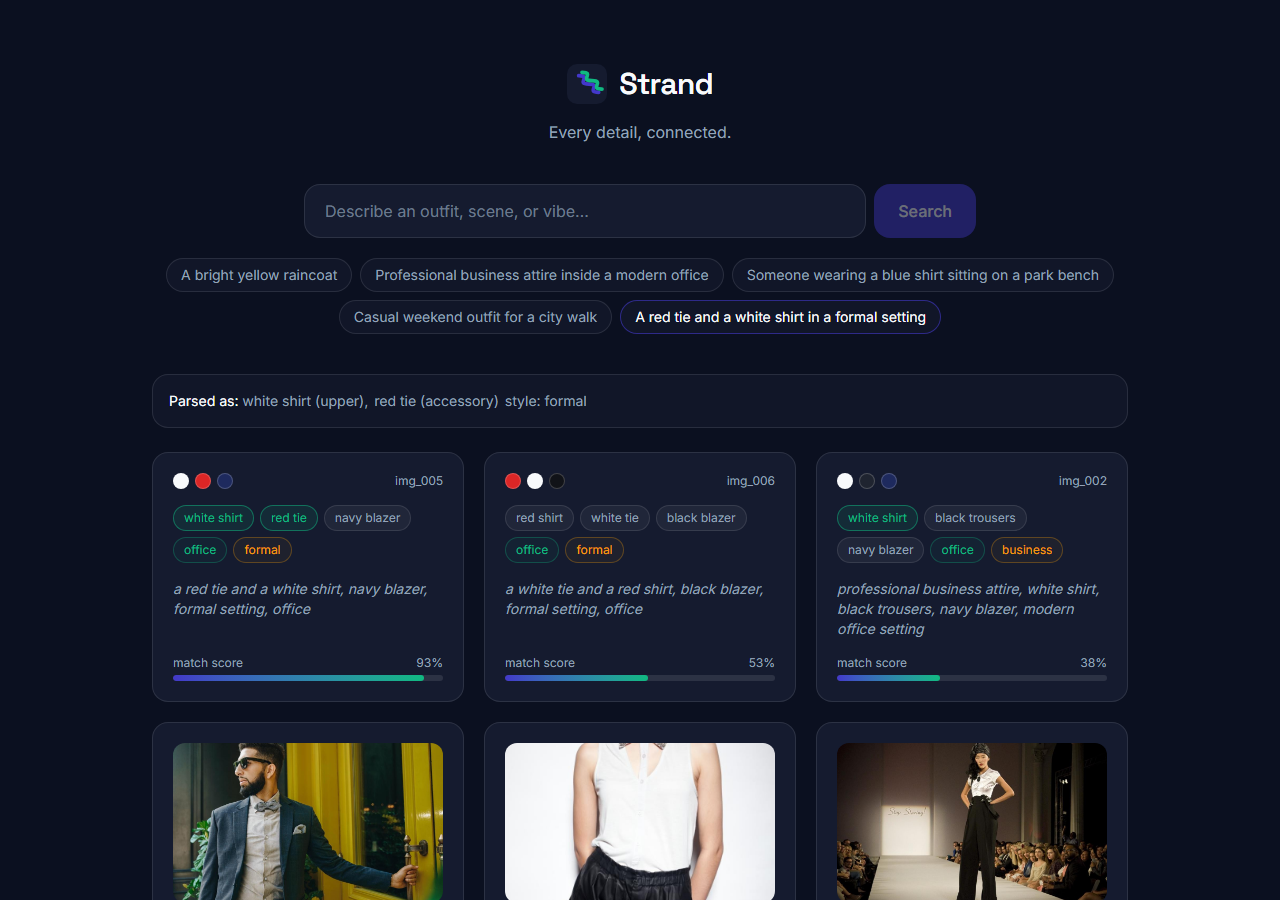
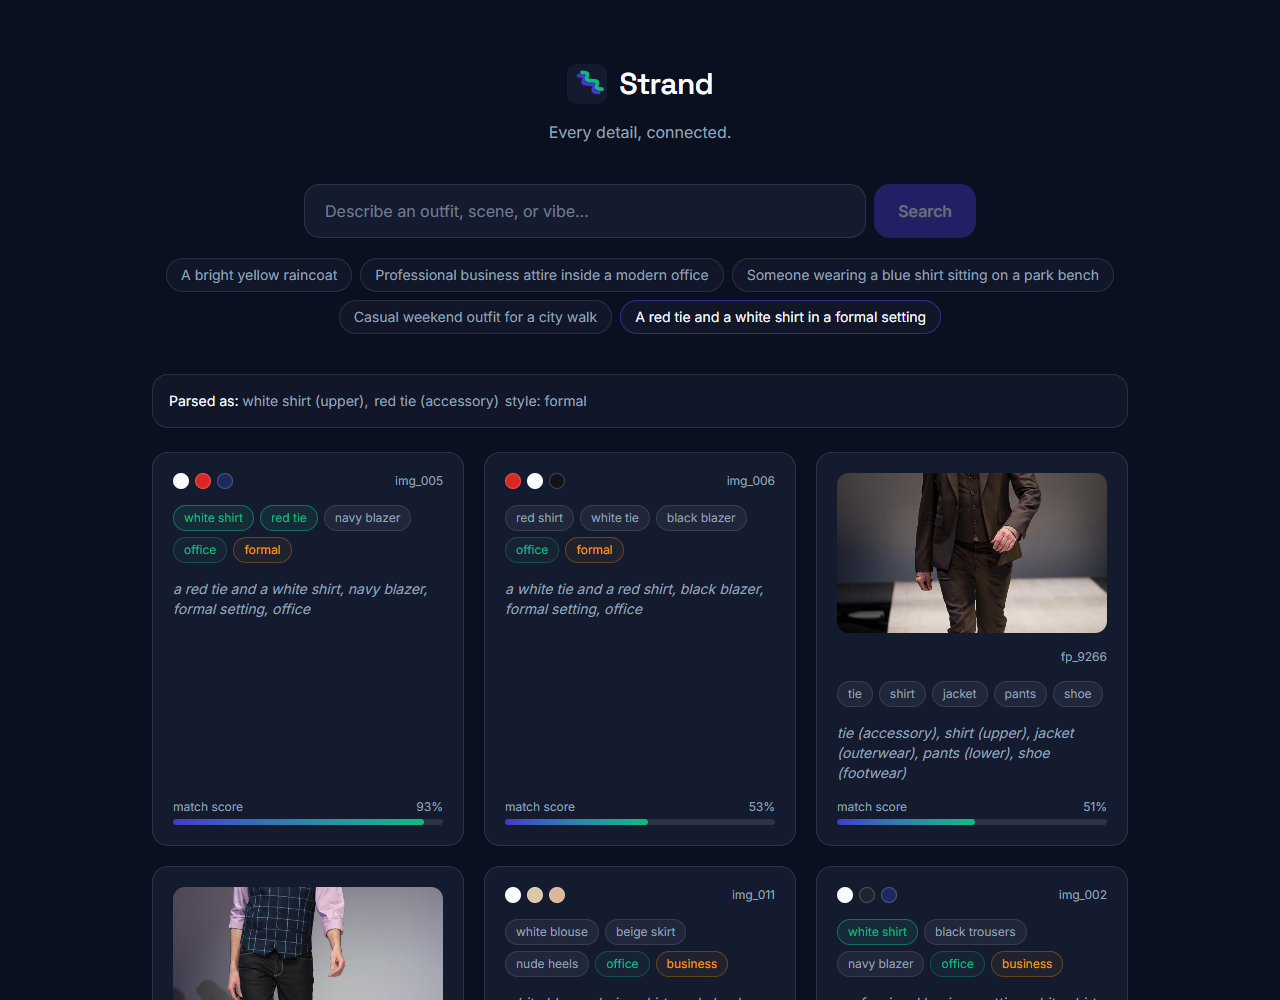
docs: add data sources, refresh screenshot, update engineering log
README: adds an explicit Data sources section (Fashionpedia, CC-BY-4.0,
via its Hugging Face mirror, plus the hand-authored decoy set and why
natural photography can't substitute for it).

Screenshot: the committed one showed photos for the mock decoy pair
(img_005/006/002) that no longer exist on disk, ResultCard.tsx already
guards photo rendering to real Fashionpedia records only
(id.startsWith("fp_")) and falls back to swatch dots for the rest, so
nothing was actually broken in the running app, the screenshot just
predated that guard. Replaced it with a fresh capture of the same
query, driven end to end against the live app (real backend, real
frontend, real Chrome via Playwright) rather than mocked up: same
93%/53% compositional-decoy contrast, now correctly showing swatch
dots for the mock pair and a real photo for the third, real result.

Working_notes.md: brings the top status summary current (dataset
resize, image-similarity wiring, garment vocabulary, cold start, CLI,
the CLIP backbone swap) and cross-references the backbone swap from
the indexer.py scaffold bullet, both had fallen behind the last two
rounds of work.

Verified CI is green on the current main (backend and frontend jobs,
all steps) via the GitHub Actions API before making these changes.

diff --git a/README.md b/README.md
@@ -98,9 +98,15 @@ Query parsing and image attribute extraction each go through a single, swappable
 |---|---|---|
 | Query parsing (text → structured schema) | Gemini 2.0 Flash | Llama 3.1/3.3, Qwen2.5, Mistral, any instruction-tuned model with structured/JSON output, self-hosted via Ollama or vLLM |
 | Image attribute extraction (photo → garments/scene/style) | Gemini 2.0 Flash | Florence-2 (a LoRA-tuned 0.77B Florence-2 has been shown to beat GPT-4o-mini and Gemini Flash on this exact fashion-JSON task), or general vision-language models like Qwen2-VL, LLaVA-NeXT, InternVL2 |
-| Image feature extraction (Part A) | Marqo-FashionCLIP | already open-source and local by default, no API key involved |
+| Image feature extraction | Marqo-FashionCLIP | already open-source and local by default, no API key involved |
 
 Both the image embeddings and the retrieval logic run entirely locally with no API key. An LLM/VLM key only unlocks open-vocabulary query parsing and automated attribute tagging; without one, the system uses a lightweight rule-based parser and the dataset's own ground-truth garment labels, the same retrieval pipeline either way.
+
+## Data sources
+
+- **[Fashionpedia](https://huggingface.co/datasets/detection-datasets/fashionpedia)** (CC-BY-4.0), real street-style, daily-life, and event photography with ground-truth garment category and bounding-box labels. 1,000 images are sampled from its validation split (`scripts/pull_fashionpedia_sample.py`), and garment slot/type detection comes directly from the dataset's own labels, no manual annotation or model-based labeling involved.
+- **A small hand-authored set** (12 records) built specifically to isolate the compositional-binding case: a color-swapped decoy pair ("a red tie and a white shirt" vs. "a white tie and a red shirt") that natural photography can't reliably provide, since it needs two images differing by exactly one color-attribute swap and nothing else.
+- Scene and style labels beyond what a dataset provides natively are filled in through the VLM attribute-extraction pipeline described above, not scraped or guessed.
 
 ## Tech stack
 

diff --git a/Working_notes.md b/Working_notes.md
@@ -1,6 +1,6 @@
 # Glance ML Internship Assignment — Working Notes (v2)
 
-Status: all design decisions are locked in (§9), the retrieval pipeline runs on real data (Chroma, real Fashionpedia records, a real CLIP-based Part A indexer, §10), it's measured against real baselines (§12), and it has a measured, not just reasoned, scaling estimate (§13). The real Gemini integration (query parser and VLM attribute extraction, §8/§10) is now written and unit-tested, with automatic fallback to the keyword parser when it isn't configured, but has not been exercised against a real API key yet. Set `GEMINI_API_KEY` (see `backend/.env.example`) and it should just work; if the SDK's API has drifted since this was written, that would surface as an error in `gemini_client.py`, the one place that talks to it.
+Status: all design decisions are locked in (§9), the retrieval pipeline runs on real data (Chroma, 1,000 real Fashionpedia records at the assignment's stated scale, §5, a real CLIP-based indexer using a fashion-tuned backbone, §10/§15.1), it's measured against real baselines (§12), and it has a measured, not just reasoned, scaling estimate (§13). Real CLIP image embeddings and caption-text embeddings are both blended into ranking (§14.1), garment-type synonym matching closes a real cross-vocabulary matching gap (§14.2), a newly indexed image can be registered into the live catalog immediately (§14.3), and a plain CLI (§14.4) satisfies the literal "a script that..." wording alongside the API. The real Gemini integration (query parser and VLM attribute extraction, §8/§10) is written and unit-tested, with automatic fallback to the keyword parser when it isn't configured, but has not been exercised against a real API key yet. Set `GEMINI_API_KEY` (see `backend/.env.example`) and it should just work; if the SDK's API has drifted since this was written, that would surface as an error in `gemini_client.py`, the one place that talks to it. `README.md` has the user-facing overview, architecture diagrams, and data sources; this file is the detailed engineering log behind it, including the attempts that didn't pan out.
 
 ---
 
@@ -208,7 +208,7 @@ The repo is partway from mocked to real: garment detection, dense retrieval, and
 - `backend/app/data/real_catalog_sample.json` — 1,000 real records pulled from Fashionpedia's validation split via `backend/scripts/pull_fashionpedia_sample.py` (see §5, resized from an original 40-image scaffolding sample up to the assignment's stated 500–1,000 minimum), using the dataset's own ground-truth bbox categories mapped onto our slot/type taxonomy. This particular Fashionpedia mirror (`detection-datasets/fashionpedia`) only exposes category + bbox, not the original paper's 294 fine-grained attributes — so these records have real garments/slots but `color`, `scene`, and `style` are honestly `null` rather than guessed; that's exactly the piece the still-mocked VLM step (§4.2) would fill in.
 - `backend/app/services/catalog.py` — loads and caches the combined catalog (mock + real sample). Split out of retriever.py so both it and the router share one catalog instance instead of re-reading JSON per call.
 - `backend/app/services/vector_store.py` — `DenseScorer`: symbolic scoring's dense counterpart, isolated behind a `.score(query) -> {id: similarity}` interface. Queries a local Chroma collection (default embedding function, no API key) for real cosine similarity; falls back to word overlap if the embedding model can't be loaded, so the app degrades instead of failing to start. `retriever.py` now only blends the two scores — it doesn't know Chroma exists.
-- `backend/app/services/indexer.py` — no longer a stub. `index_image()` runs a real CLIP model (`open_clip`, local, no API key) over an image and returns a real embedding, which `image_vector_store.py` persists to an on-disk Chroma collection. This is Part A's "Feature Extraction... Vector Storage" requirement, satisfied literally, using pixels rather than ground-truth labels. It deliberately does not touch color/scene/style; that axis still needs the real VLM call from §4.2. `backend/scripts/build_image_vector_index.py` is the runnable batch driver, and `/api/index` exposes the same thing over the API (503 if `torch`/`open_clip` aren't installed in a given deployment, 404 for a missing file, 200 with the embedding dimension on success). These embeddings are now actually consulted at query time too (`services/image_similarity.py`, §14.1), not just persisted, and supplying `garments` to `/api/index` registers the image into the live catalog immediately, closing the cold-start gap §14.3 documents.
+- `backend/app/services/indexer.py` — no longer a stub. `index_image()` runs a real CLIP model (`open_clip`, local, no API key, now Marqo-FashionCLIP rather than vanilla CLIP, see §15.1) over an image and returns a real embedding, which `image_vector_store.py` persists to an on-disk Chroma collection. This is Part A's "Feature Extraction... Vector Storage" requirement, satisfied literally, using pixels rather than ground-truth labels. It deliberately does not touch color/scene/style; that axis still needs the real VLM call from §4.2. `backend/scripts/build_image_vector_index.py` is the runnable batch driver, and `/api/index` exposes the same thing over the API (503 if `torch`/`open_clip` aren't installed in a given deployment, 404 for a missing file, 200 with the embedding dimension on success). These embeddings are now actually consulted at query time too (`services/image_similarity.py`, §14.1), not just persisted, and supplying `garments` to `/api/index` registers the image into the live catalog immediately, closing the cold-start gap §14.3 documents.
 - `backend/app/routers/query.py` and `retriever.py` — `_effective_alpha` now scales alpha by `parsed.confidence`: a query the parser recognized nothing in gets alpha=0 (dense reported at full strength, matching the old binary behavior), a fully-recognized query gets the full configured alpha, and anything in between is scaled proportionally rather than snapping straight from 0 to 0.6. `test_retriever.py::test_lower_confidence_scales_alpha_down` pins this against two queries differing only in confidence.
 
 The architecture decision is resolved (§9); the remaining open decisions (VLM serving mode, query-parser prompt, vector DB choice, dataset pull scope) are not, this scaffold exists to make the retrieval *logic* (weighted hybrid, schema shape, query to result flow) testable end to end ahead of that real dataset/model integration.